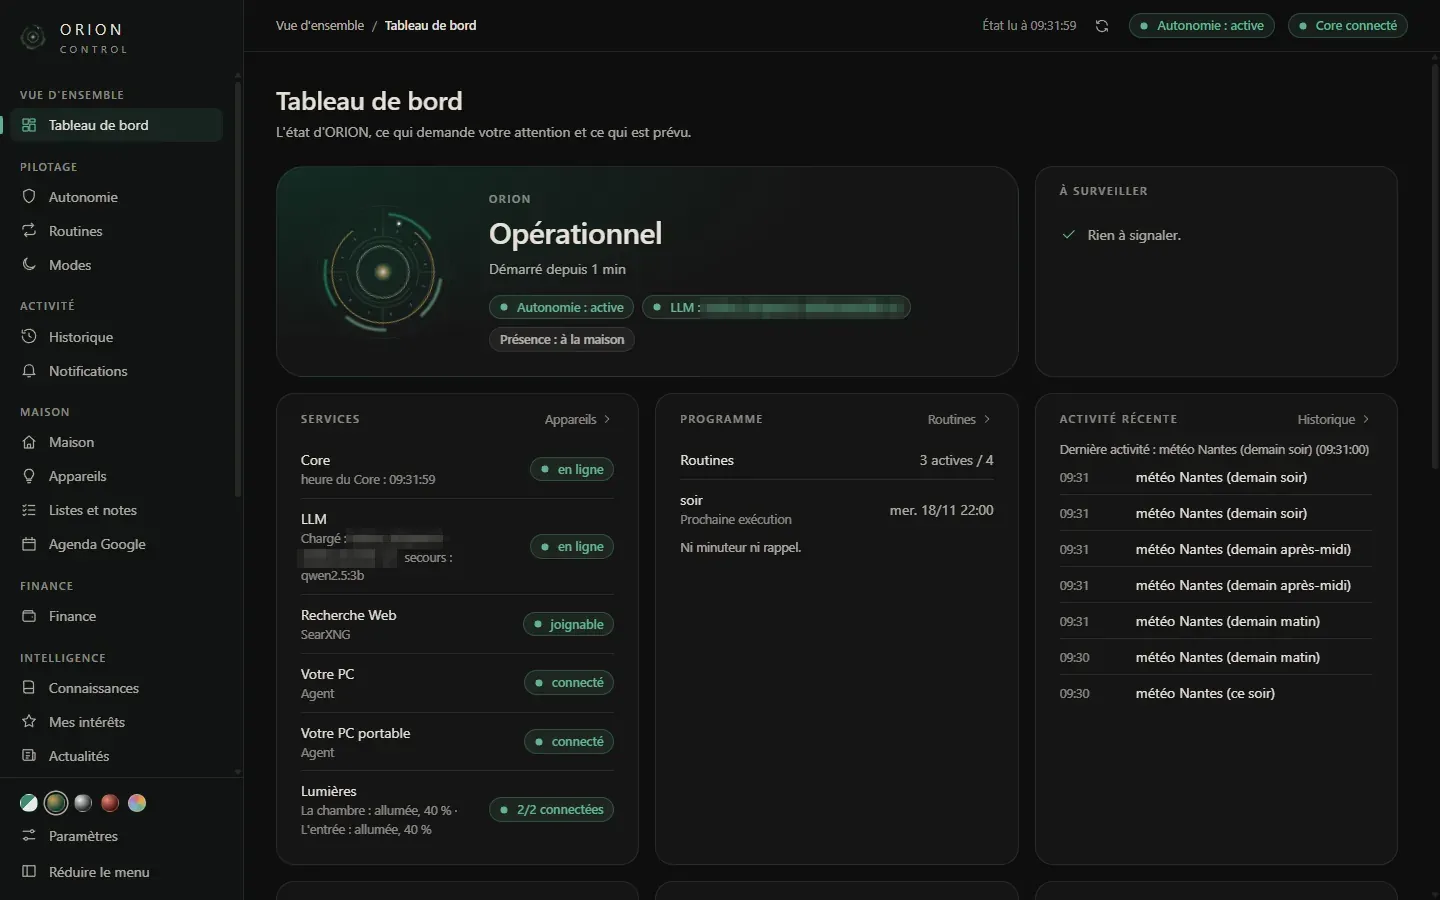
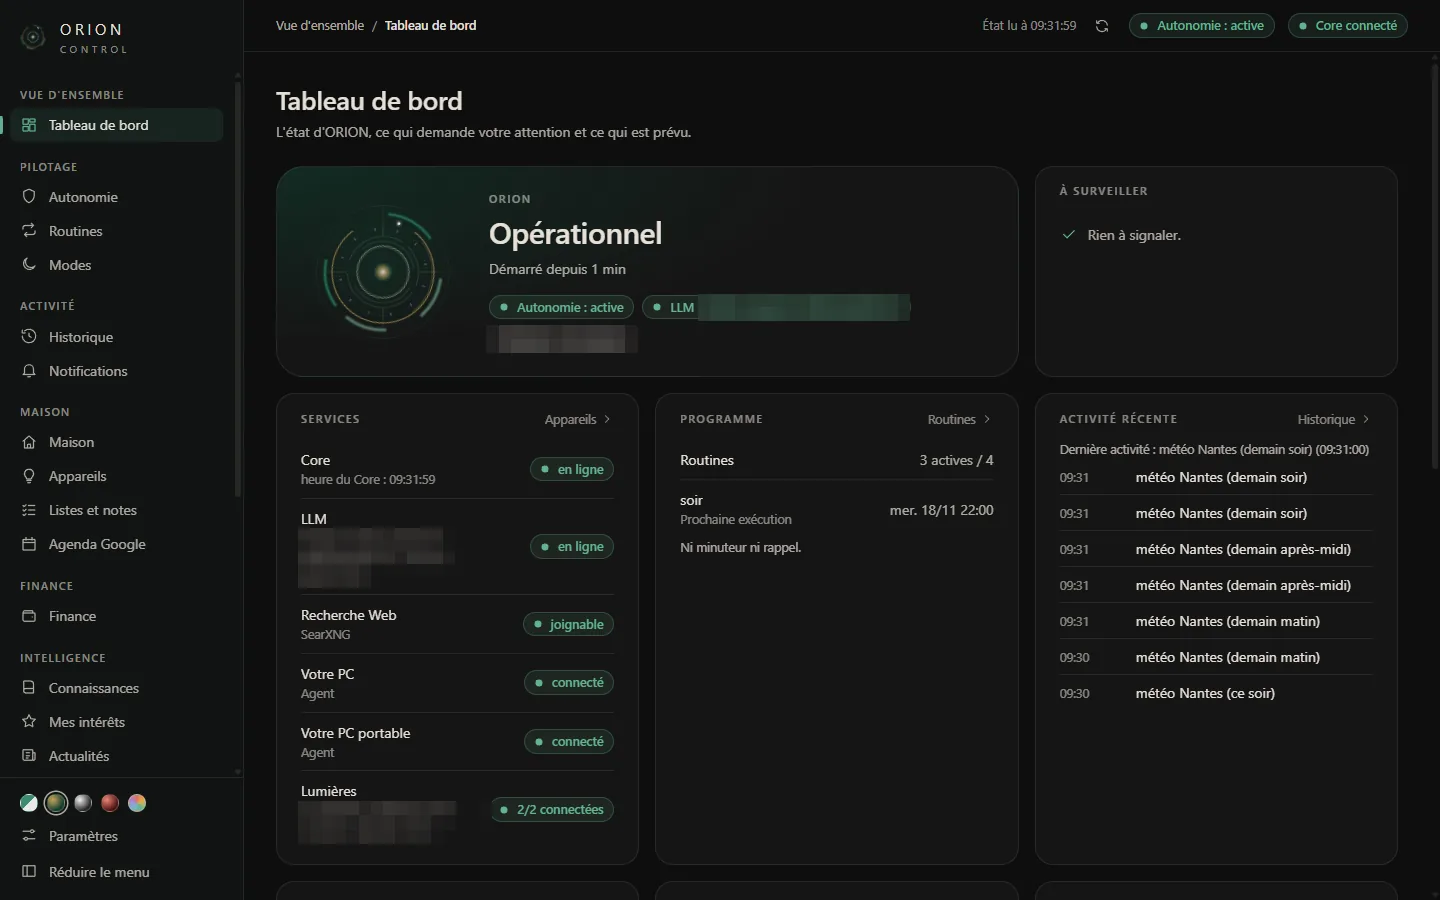
Étude de cas ORION : masquage revu (nom du modèle masqué, agenda et post-it visibles)
- Fond d'écran principal : nom du modèle flouté ; post-it, agenda et rappels laissés
  visibles (vides) ; présence et montants toujours floutés
- Écran portrait : Agenda Google visible ; finance et Frag Factory toujours floutés
- Tableau de bord d'ORION Control : nom du modèle, présence et état des lumières masqués
- Légendes mises à jour

diff --git a/public/assets/orion.js b/public/assets/orion.js
@@ -23,9 +23,9 @@
   //   { src: "/assets/orion/wallpaper-stats-portrait.webp", … caption: "Écran portrait : modules" }
   // La section reste masquée tant que la liste est vide.
   const WALLPAPERS = [
-    { src: "/assets/orion/wallpaper-principal.webp", alt: "Fond d'écran principal d'ORION : sphère animée reliée aux machines, horloge, météo, santé du Core et état des PC ; agenda, présence, post-it et montants floutés", caption: "Fond d'écran principal : le cœur d'ORION relié à ses machines, météo, santé et activité (données privées floutées)", w: 1920, h: 1080 },
+    { src: "/assets/orion/wallpaper-principal.webp", alt: "Fond d'écran principal d'ORION : sphère animée reliée aux machines, horloge, météo, santé du Core, état des PC, agenda et post-it ; présence, montants et nom du modèle floutés", caption: "Fond d'écran principal : le cœur d'ORION relié à ses machines, météo, santé et activité (présence, montants et modèle floutés)", w: 1920, h: 1080 },
     { src: "/assets/orion/wallpaper-stats-paysage.webp", alt: "Écran paysage : disponibilité des services sur 7 jours, autonomie, sauvegarde de la nuit, terminaux, appels et état des modules", caption: "Écran paysage : services, autonomie, sauvegarde de la nuit et modules", w: 1920, h: 1080 },
-    { src: "/assets/orion/wallpaper-stats-portrait.webp", alt: "Écran portrait : modules d'ORION (NEWS, WATCH, EVOLVE, jeux, missions…), finance et agenda floutés", caption: "Écran portrait : les modules (finance et agenda floutés)", w: 1080, h: 1920 },
+    { src: "/assets/orion/wallpaper-stats-portrait.webp", alt: "Écran portrait : modules d'ORION (NEWS, WATCH, EVOLVE, jeux, agenda, missions…), finance floutée", caption: "Écran portrait : les modules (finance floutée)", w: 1080, h: 1920 },
   ];
 
   // Le visage d'ORION, capturé dans ses quatre états (page réelle orion/face/static).
